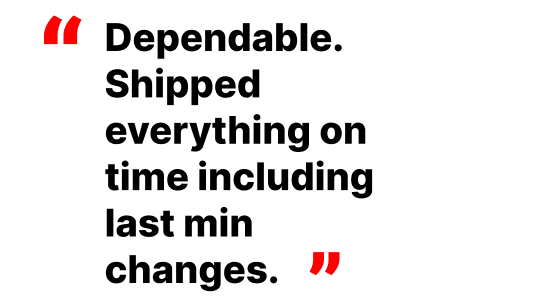
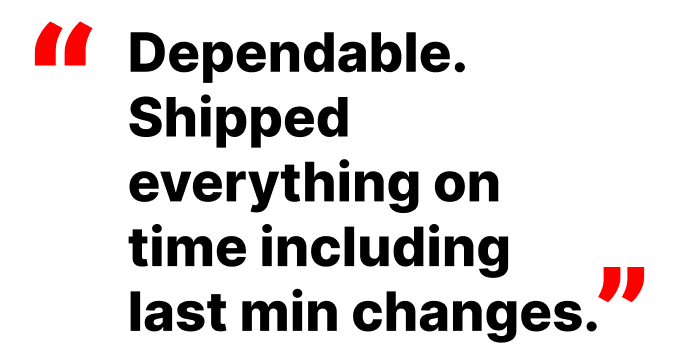
new

Changed region(s): [[0.1831, 0.0586, 0.8851, 0.9674], [0.0305, 0.0586, 0.1526, 0.2052], [0.8546, 0.7329, 0.9461, 0.8502]]

diff --git a/src/components/Reviews.tsx b/src/components/Reviews.tsx
@@ -34,7 +34,7 @@ export default function Reviews() {
         pt-20
       "
     >
-      <div className="w-full max-w-6xl mx-auto flex flex-col md:flex-row md:items-stretch gap-4">
+      <div className="w-full max-w-6xl mx-auto flex flex-col md:flex-row md:items-stretch gap-3">
         {/* Left column - Main Review + Image */}
         <motion.div
           className="flex flex-col items-center md:items-start md:w-3/5 "
@@ -46,7 +46,7 @@ export default function Reviews() {
           <img
             src="/review/quote.png"
             alt="Quote Mobile"
-            className="block md:hidden w-auto object-contain mb-4"
+            className="block md:hidden w-auto object-contain h-36 mb-1 mr-18"
           />
           <img
             src="/review/quote-md.png"
@@ -54,13 +54,13 @@ export default function Reviews() {
             className="hidden md:block w-full object-contain"
           />
           {/* Autor */}
-          <p className="text-[1em] text-red-700 font-semibold text-center md:text-right ml-9 md:ml-25 md:text-xl">
+          <p className="text-[0.7em] text-red-700 font-semibold text-center md:text-right ml-27 md:ml-25 md:text-xl">
             — {mainReview.author}, {mainReview.country} ({mainReview.year})
           </p>
         </motion.div>
 
         {/* Right column - Other Reviews */}
-        <div className="md:w-2/5 flex flex-col justify-start gap-4 ml-24 md:ml-0 md:mt-32">
+        <div className="md:w-2/5 flex flex-col justify-start gap-4 ml-24 md:ml-0 md:mt-50">
           {reviews.map((r, i) => (
             <motion.div
               key={i}
